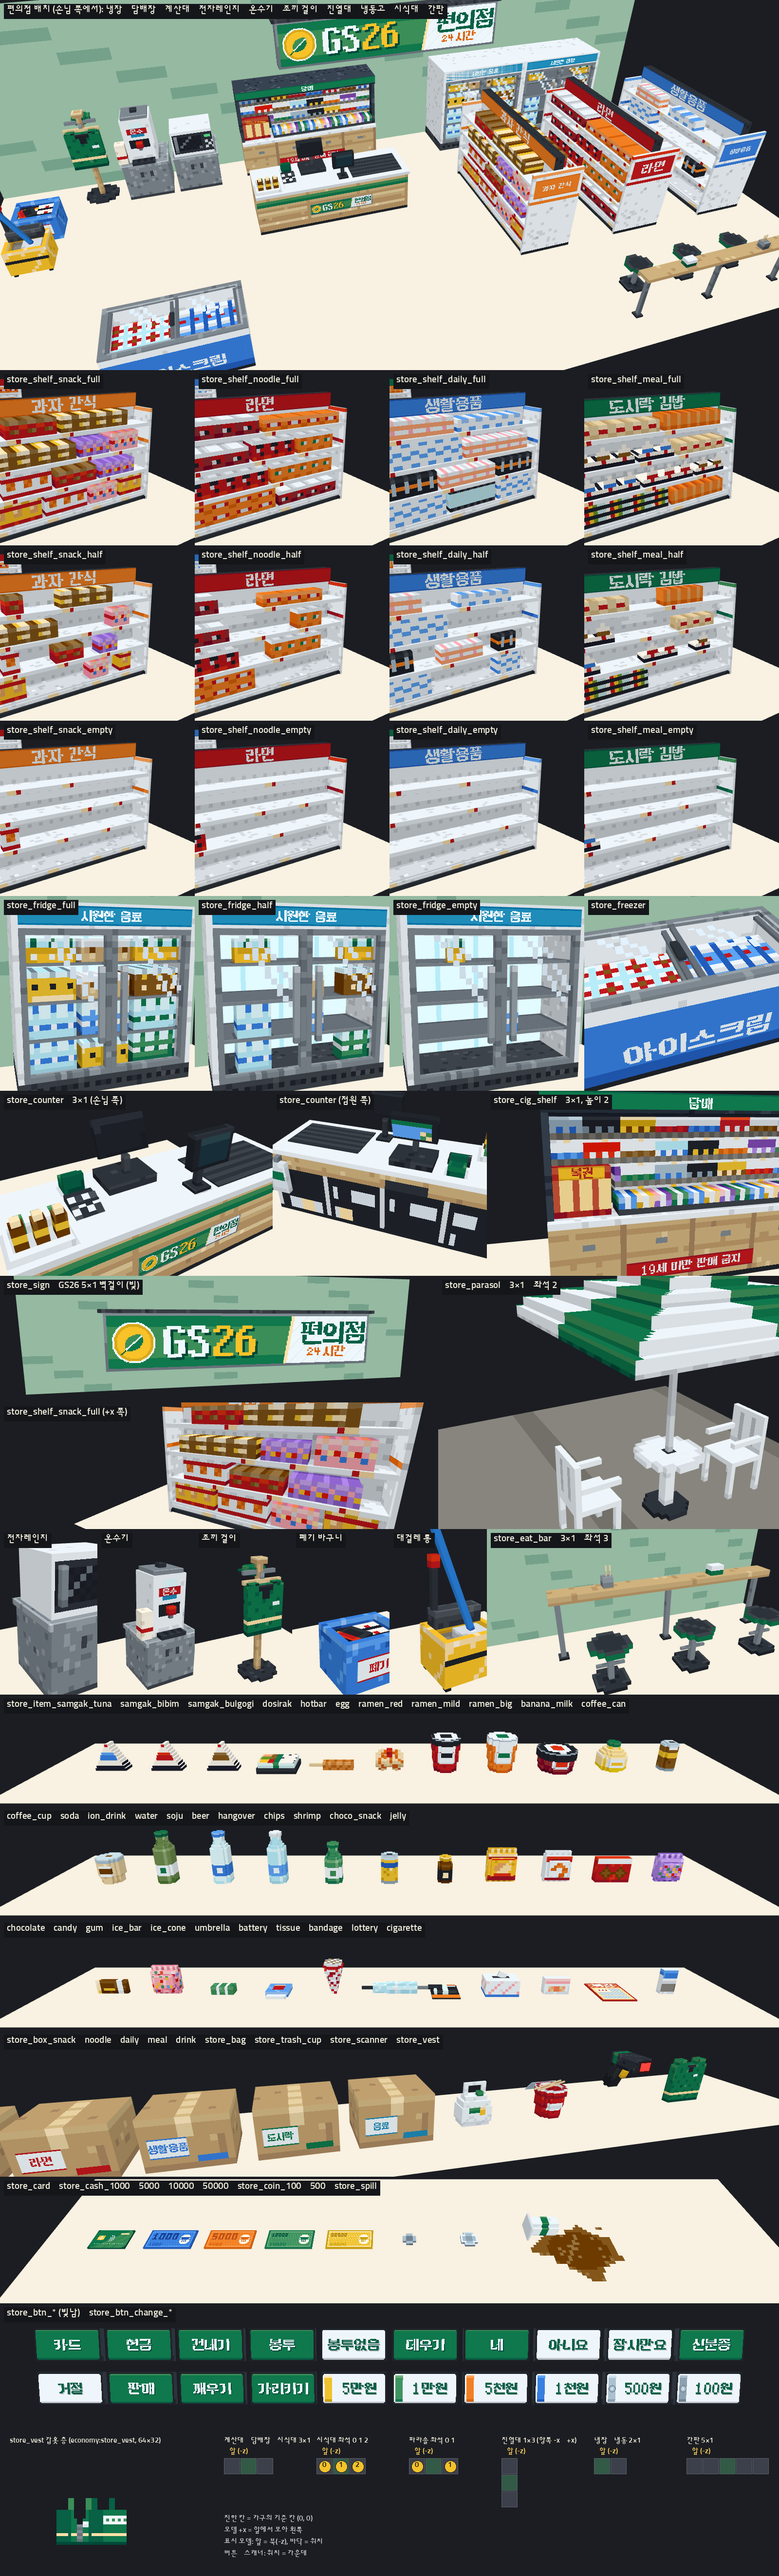
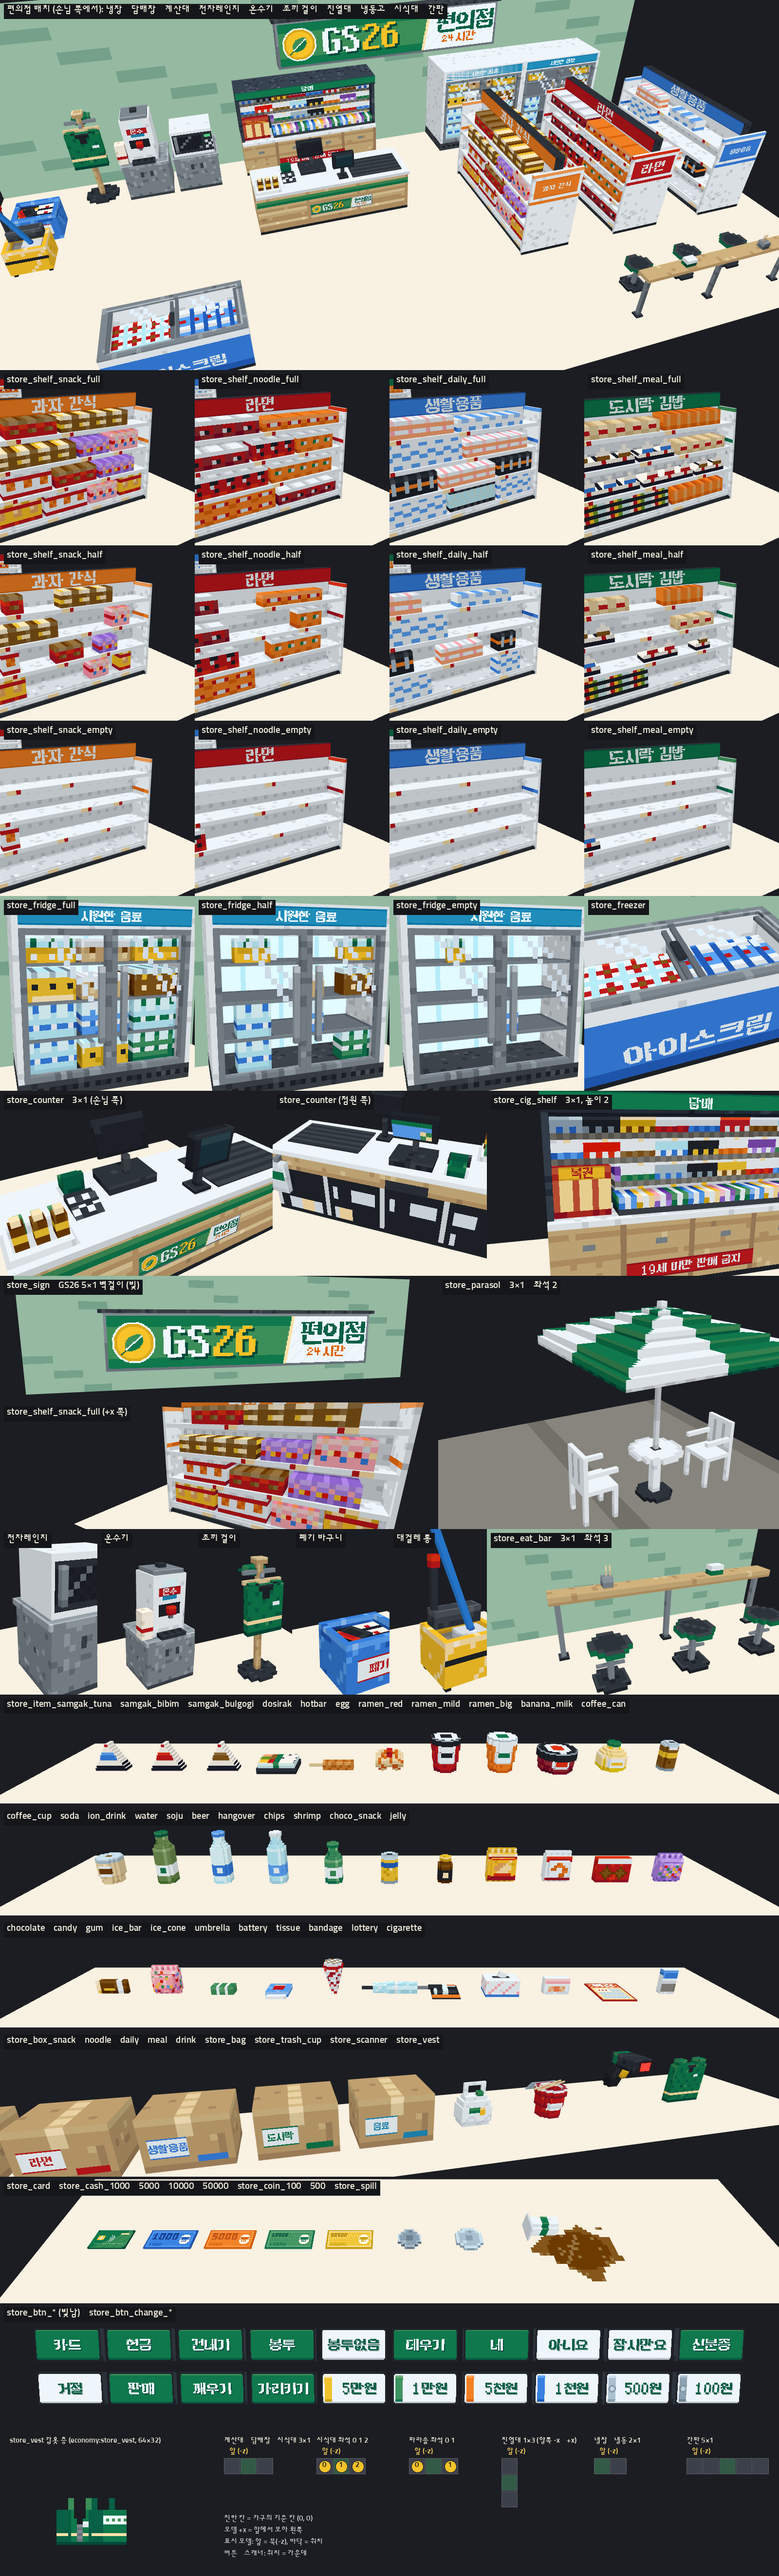
작업 중간 저장 (아직 jar 아님)
Claude-Session: https://claude.ai/code/session_01RZiBpXr9dauHCJtPMWBQ4s

Changed region(s): [[0.5625, 0.4679, 1.0, 0.5926], [0.5938, 0.8422, 0.625, 0.8733], [0.5, 0.8422, 0.5312, 0.8733]]

diff --git a/tools/assetgen/models/store.py b/tools/assetgen/models/store.py
@@ -589,7 +589,7 @@ def freezer():
 # ================================================================================================
 
 def _cabinet(m):
-    steel = Paint("steel", 4, "metal", noise=0.03, rim=1.0)
+    steel = Paint("steel", 4, noise=0.0, rim=1.0)
 
     def doors(c):
         if c.face == "north":
@@ -600,7 +600,7 @@ def _cabinet(m):
         return None
     m.group("cabinet")
     m.box("cabinet", (1, 0, 2), (15, 12, 15), steel(decal=doors))
-    m.box("top", (0.5, 12, 1.5), (15.5, 13, 15.5), Paint("steel", 5, "metal", noise=0.02, rim=1.2))
+    m.box("top", (0.5, 12, 1.5), (15.5, 13, 15.5), Paint("steel", 5, noise=0.0, rim=1.2))
 
 
 def microwave():
@@ -613,10 +613,12 @@ def microwave():
         if c.face == "north":
             if 4.5 <= x < 14 and 14.5 <= y < 21:
                 if 5.5 <= x < 12.5 and 15.5 <= y < 20:
-                    # the window: dark mesh, a glint
-                    if math.floor(x + y) % 7 == 0:
+                    # the window: dark glass, the turntable's glow faint inside, a glint across its corner
+                    if math.floor(x - y) == -9 or math.floor(x - y) == -11 and x < 9:
                         return ("steel", 3)
-                    return ("iron", 1) if (c.i[0] + c.i[1]) % 2 else ("iron", 0)
+                    if y < 16.5 and 7 <= x < 11:
+                        return ("iron", 2)
+                    return ("iron", 1)
                 return ("iron", 2)
             if 1.5 <= x < 4.5 and 14.5 <= y < 21:
                 if 19 <= y < 20.5:

diff --git a/tools/assetgen/store_assets.py b/tools/assetgen/store_assets.py
@@ -185,7 +185,7 @@ def sheet(path=SHEET):
     view(0, y0, 900, 260, [3958, 8, 8], 44, 8, 6, 1.45, "store_sign · GS26 5×1 벽걸이 (빛)")
     els.extend(_placed(pv["store_parasol"], (4200, 8, 0), 2))
     els.append(_plane("pave", 4160, -40, 4256, 56))
-    view(900, y0, 700, 520, [4208, 20, 8], 38, 28, 22, 1.9, "store_parasol · 3×1 · 좌석 2")
+    view(900, y0, 700, 520, [4208, 22, 8], 46, 28, 20, 2.0, "store_parasol · 3×1 · 좌석 2")
     view(0, y0 + 260, 900, 260, [1000 + 8, 15, 8], 30, 62, 14, 1.5, "store_shelf_snack_full (+x 쪽)")
     # row 7: the appliances and props
     y0 += 520
@@ -196,7 +196,7 @@ def sheet(path=SHEET):
         els.extend(_placed(pv[k], (ax, 8, 0), 1))
         els.append(_plane("tile", ax - 24, -24, ax + 24, 24))
         tall = k in ("store_hanger", "store_kettle")
-        view(i * 200, y0, 200, 340, [ax, 15 if tall else 9, 8], 22 if tall else 15, 28, 20, 3.4, label)
+        view(i * 200, y0, 200, 340, [ax, 15 if tall else 9, 8], 22 if tall else 15, 18, 20, 4.0, label)
     els.extend(_placed(pv["store_eat_bar"], (5000, 8, 0), 1))
     els.append(_plane("tile", 4970, -24, 5040, 24))
     els.append(_wall("wallbg", 4970, 5040, 0, 30, 16))
